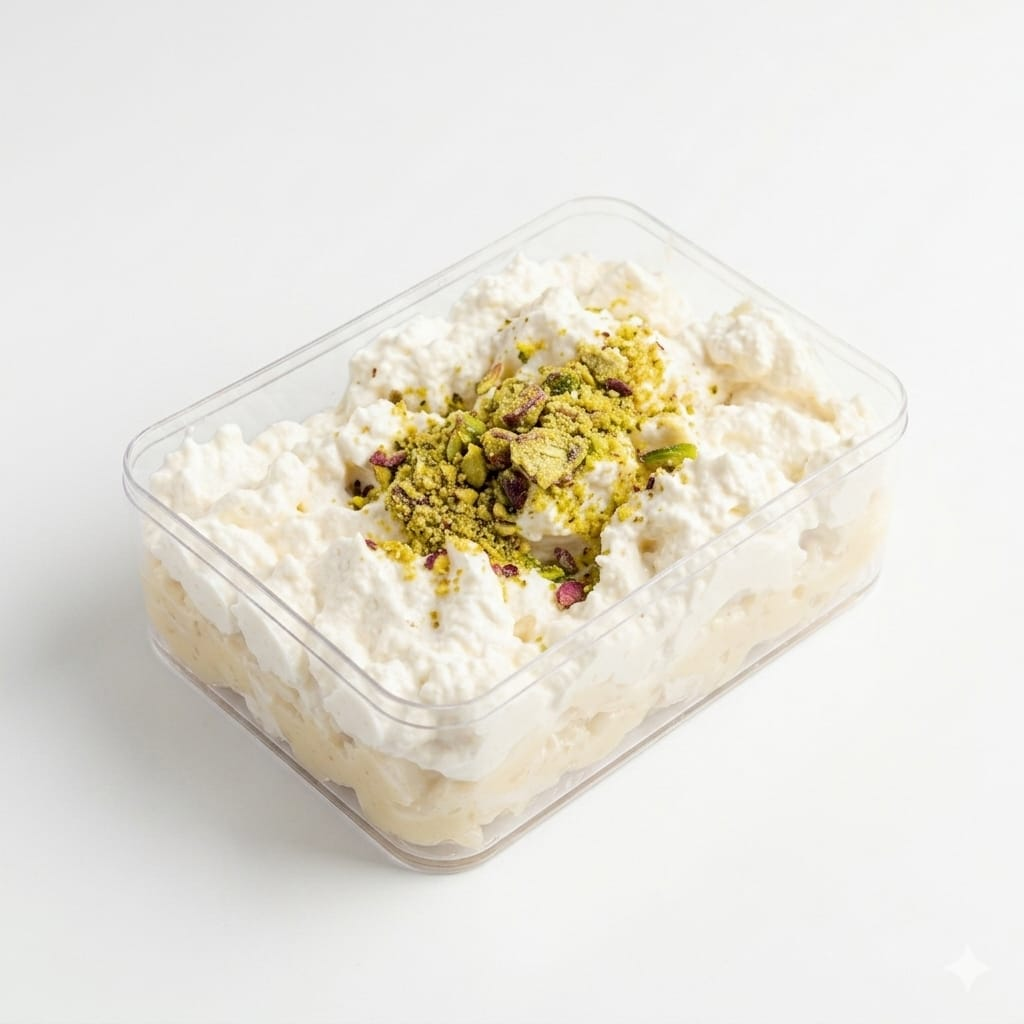
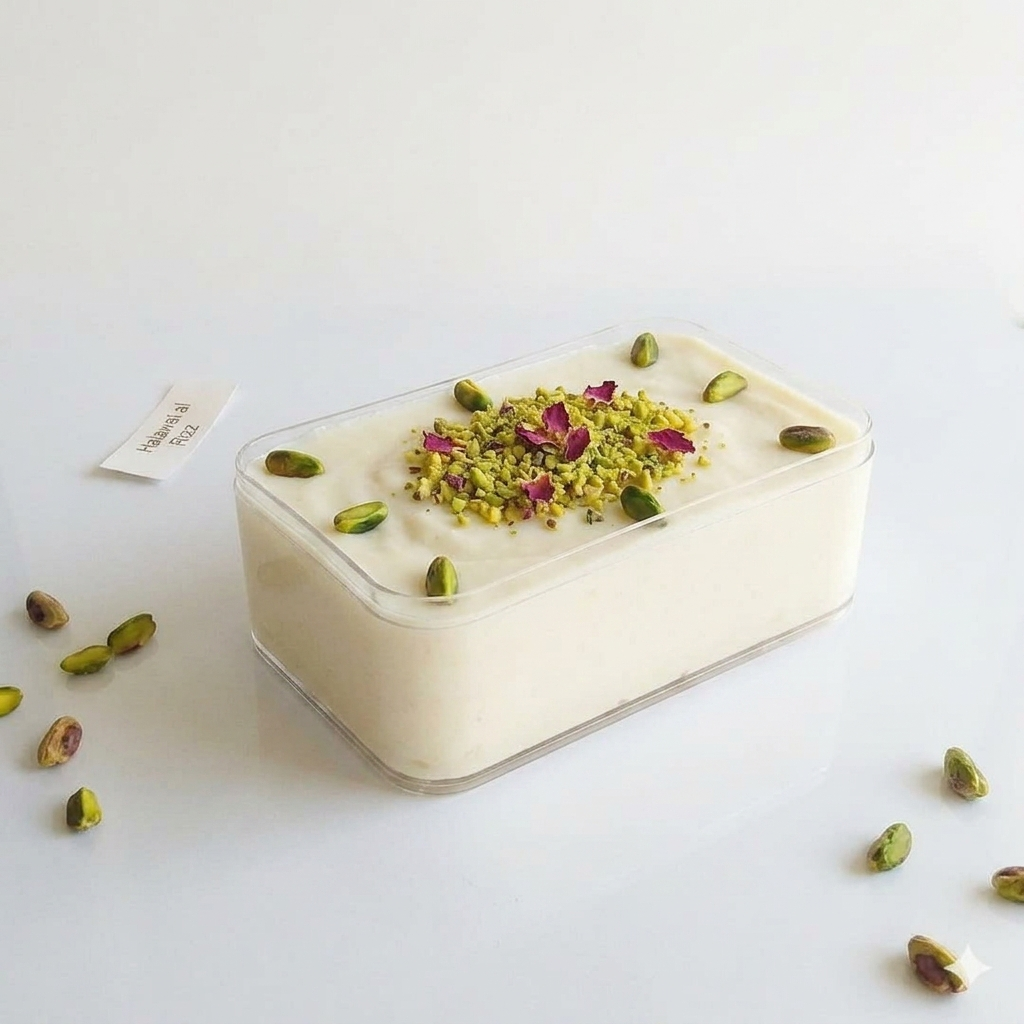
feat: add Halawet El Jibn & Osmaliyeh, reorder Oriental Boxes, enlarge menu photos
- Restore correct Halawet el Riz photo (the labeled "Halawat al Rizz" shot) and add the new photo as Halawet El Jibn instead
- Add Osmaliyeh as a new oriental item (no photo yet)
- Reorder Oriental Boxes: Halawet El Jibn, Osmaliyeh, Halawet el Riz, Moufataka
- Increase menu thumbnail size from 88px to 119px (~35%)

diff --git a/app/page.tsx b/app/page.tsx
@@ -50,8 +50,10 @@ const allFlavors: {
   category: "oriental" | "creamy" | "fluffy";
   image: string | null;
 }[] = [
-  { id: "moufataka",         name: "Moufataka",               desc: "Lebanese classic — rice pudding, caramel, nuts.",              boxPrice: 4, trayPrice: null, tier: "classic", category: "oriental", image: "/menu/moufataka.jpg" },
+  { id: "halawet-jibn",      name: "Halawet El Jibn",         desc: "Sweet cheese rolls filled with ashta, soaked in rose syrup.",  boxPrice: 4, trayPrice: null, tier: "classic", category: "oriental", image: "/menu/halawet-el-jibn.png" },
+  { id: "osmaliyeh",         name: "Osmaliyeh",               desc: "Crisp shredded kunafa layered with ashta and pistachios.",     boxPrice: 4, trayPrice: null, tier: "classic", category: "oriental", image: null },
   { id: "halawet-riz",       name: "Halawet el Riz",          desc: "Traditional Levantine rice cream, sweetened with rose.",        boxPrice: 4, trayPrice: null, tier: "classic", category: "oriental", image: "/menu/halawet-el-riz.png" },
+  { id: "moufataka",         name: "Moufataka",               desc: "Lebanese classic — rice pudding, caramel, nuts.",              boxPrice: 4, trayPrice: null, tier: "classic", category: "oriental", image: "/menu/moufataka.jpg" },
 
   { id: "tiramisu-classic",  name: "Classic Tiramisu",        desc: "Espresso-soaked ladyfingers, mascarpone cream, dark cocoa.",   boxPrice: 6, trayPrice: 13,   tier: "premium", category: "creamy", image: "/menu/classic-tiramisu.png" },
   { id: "tiramisu-brownie",  name: "Brownie Tiramisu",        desc: "Fudgy brownie base meets tiramisu cream, perfectly layered.",  boxPrice: 7, trayPrice: 15,   tier: "premium", category: "creamy", image: "/menu/brownie-tiramisu.png" },
@@ -754,7 +756,7 @@ function MenuSection({ onAddToCart }: { onAddToCart: (item: CartItem) => void })
                     }}>
                       {/* Image */}
                       <div style={{
-                        width: 88, height: 88, flexShrink: 0,
+                        width: 119, height: 119, flexShrink: 0,
                         borderRadius: 10,
                         background: "var(--cream)",
                         border: "1px solid var(--border)",

diff --git a/components/MarqueeBar.tsx b/components/MarqueeBar.tsx
@@ -4,7 +4,7 @@ const items = [
   "Classic Tiramisu", "Lotus Cheesecake", "Oreo Cheesecake",
   "Strawberry Bavaroise", "Mango Bavaroise", "Blueberry Cheesecake",
   "Raspberry Cheesecake", "Brownie Tiramisu", "Halawa Bavaroise",
-  "Chocolate Dubai Cake", "Halawet el Riz", "Moufataka",
+  "Chocolate Dubai Cake", "Halawet El Jibn", "Osmaliyeh", "Halawet el Riz", "Moufataka",
 ];
 
 export default function MarqueeBar() {